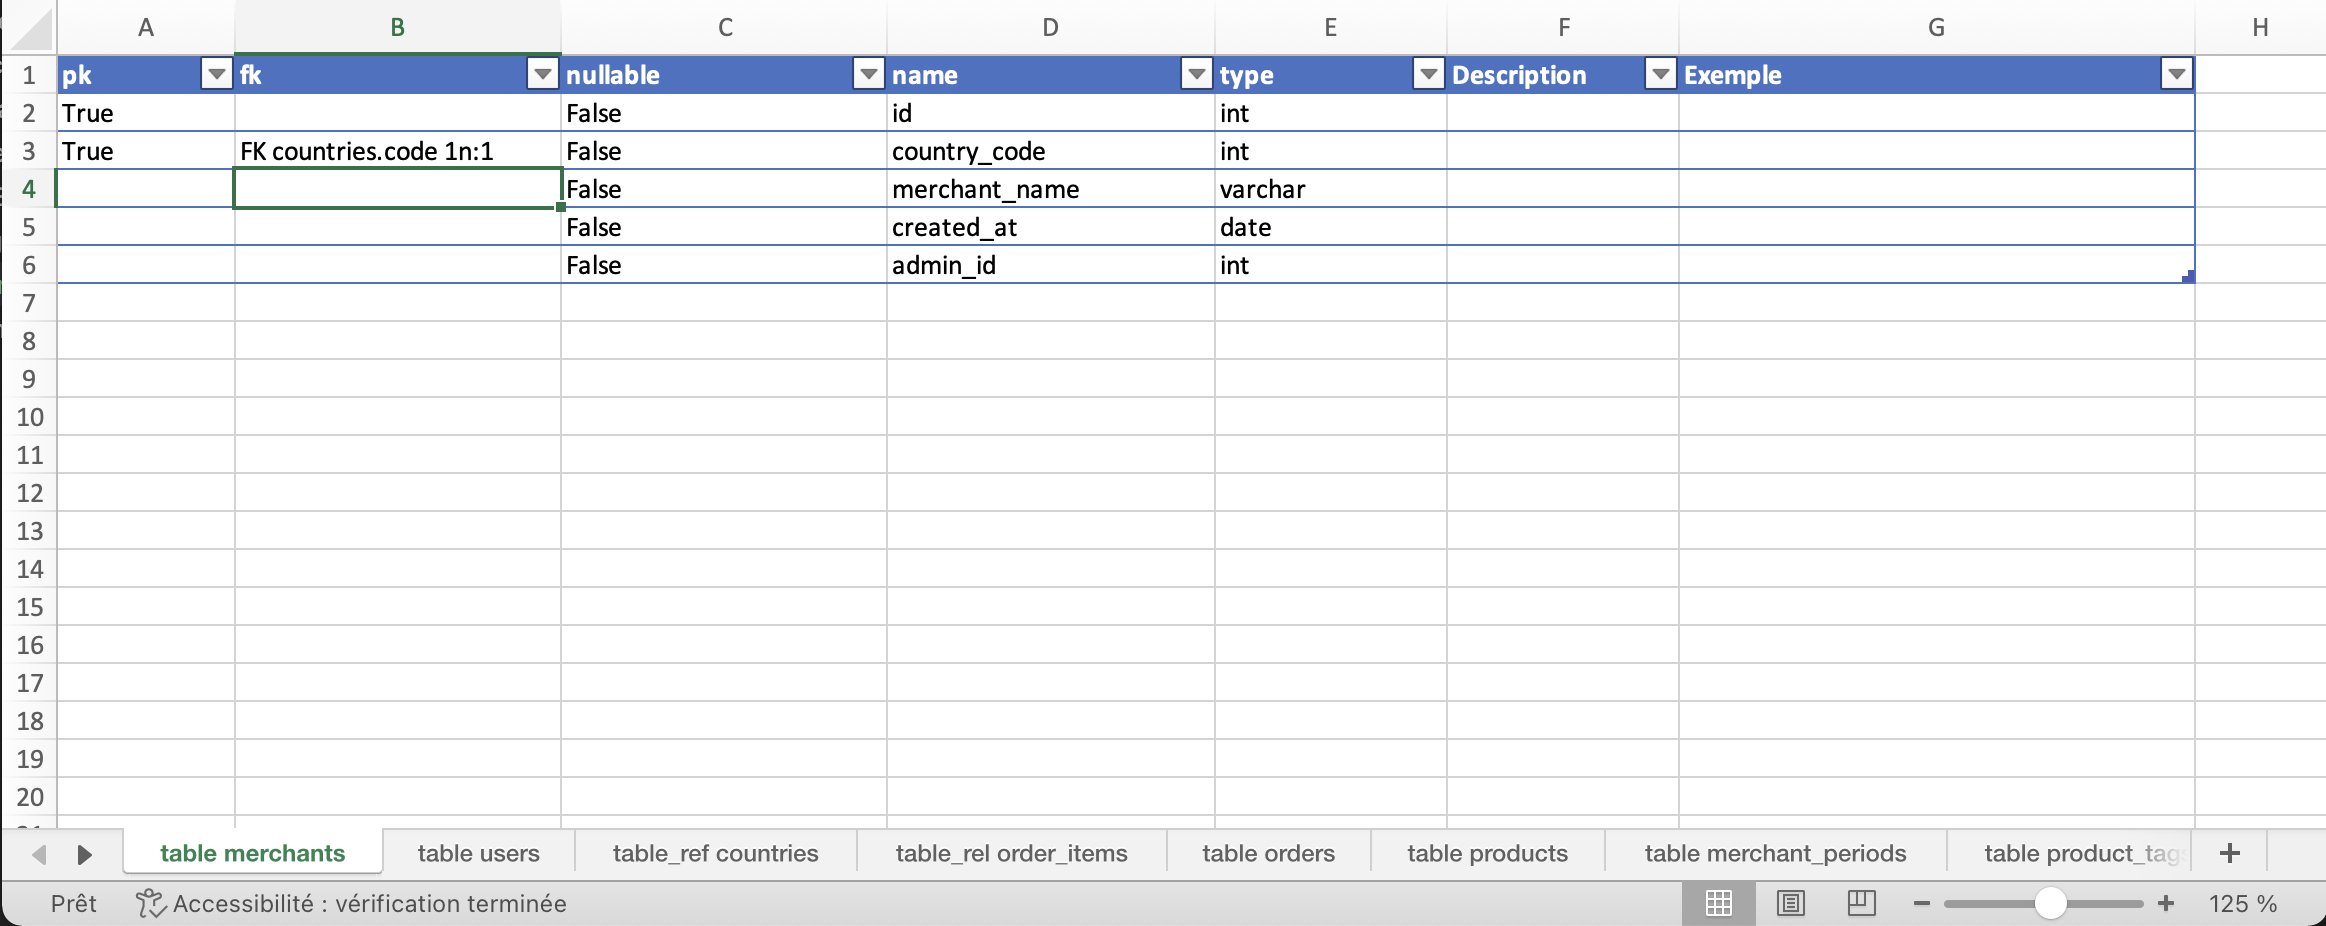
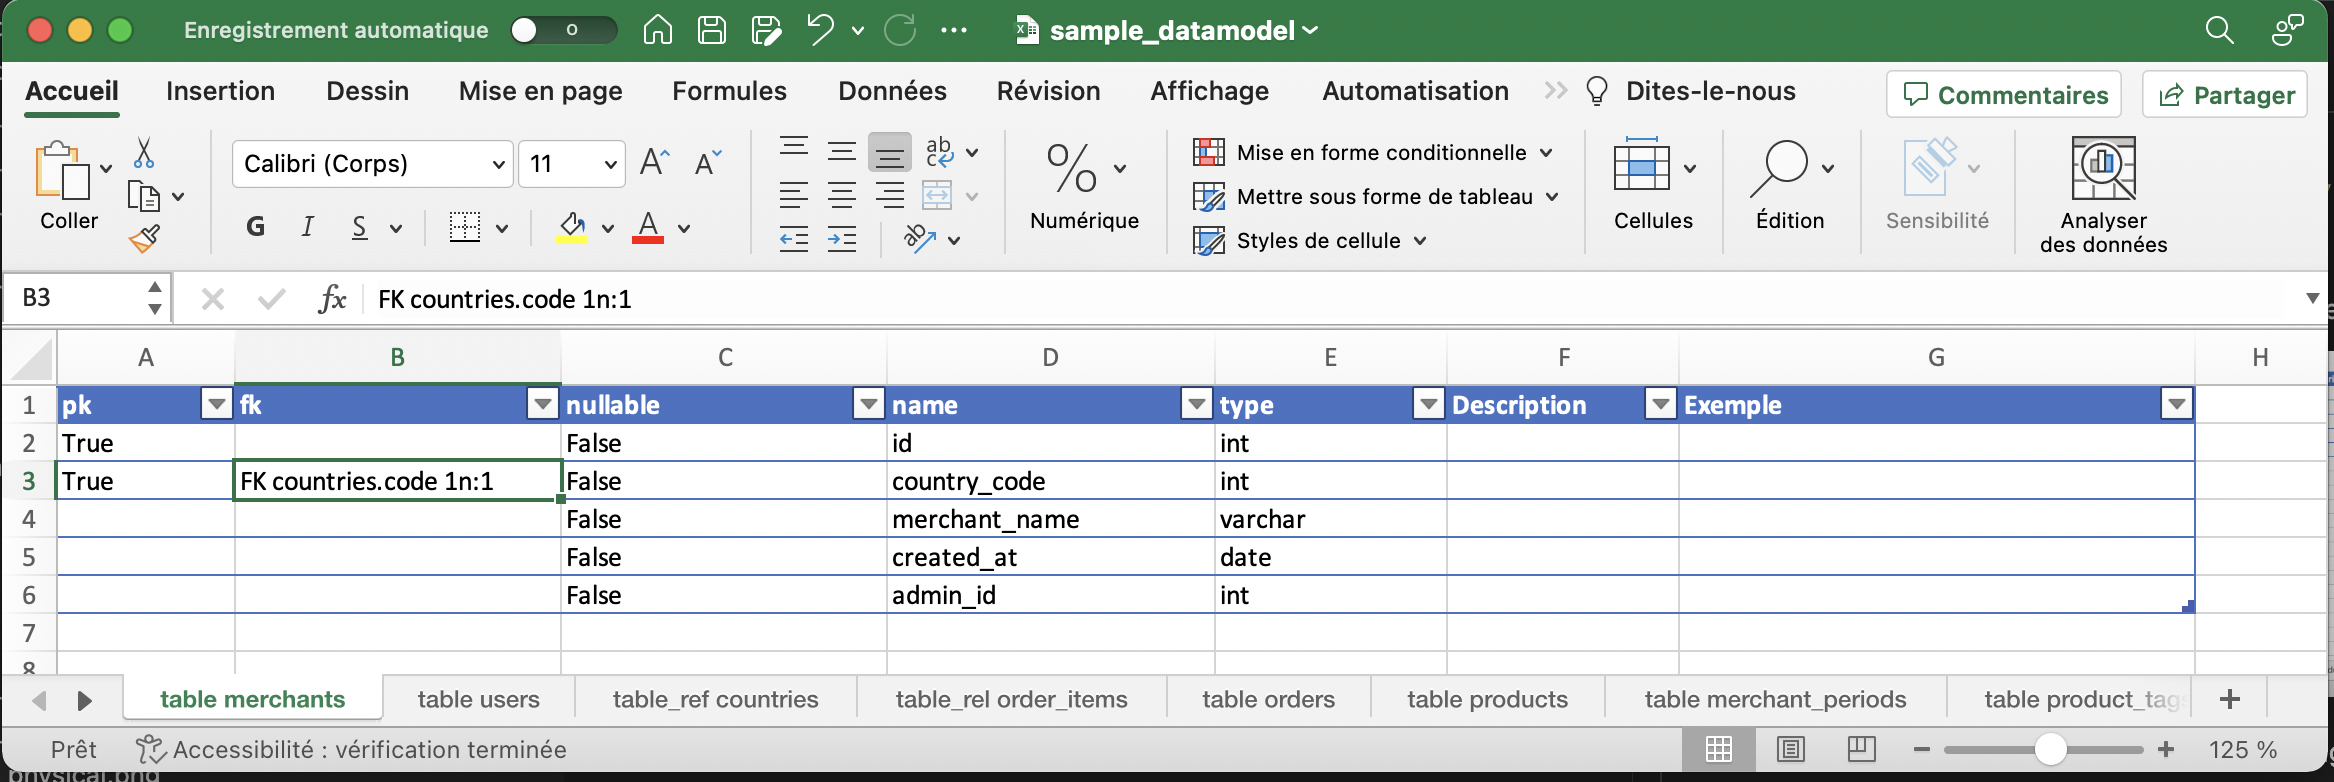
updating doc

Changed region(s): [[0.0, 0.0, 1.0, 1.0]]

diff --git a/readme.md b/readme.md
@@ -45,6 +45,8 @@ The sheet decribing the table list all table columns with the following columns 
 
 See [sample_datamodel.xlsx](example/sample_datamodel.xlsx) for a complete example
 
+![1](img/xlsx_example.png)
+
 `er-diagram-python` supports the following database cardinalities :
 | Cardinality | Description | Visual |
 | --- | --- | --- |
